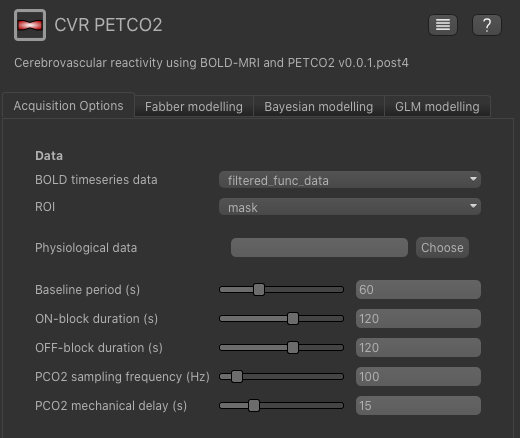
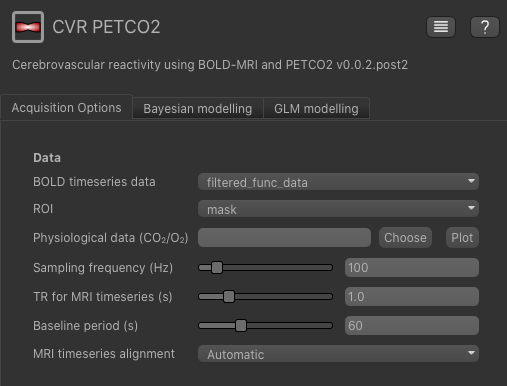
Fixed some screenshots for CVR tutorial and added additional acknowledgements

diff --git a/doc/cvr/tutorial.rst b/doc/cvr/tutorial.rst
@@ -14,7 +14,15 @@ Quantiphyse. In the coming months, we plan to optimise this aspect and add addit
 any feedback would be extremely useful, so please contact us if you would like to suggest any alteration
 (joana.pinto@eng.ox.ac.uk, martin.craig@nottingham.ac.uk).
 
-Start the program by typing quantiphyse at a command prompt or clicking on the Quantiphyse icon in the menu or dock.
+Additionally, we would like to thank Dr Sana Suri for providing the example data for this tutorial and Prof Daniel Bulte
+for helping with the analysis pipeline. 
+
+Start the program by typing ``quantiphyse`` at a command prompt or clicking on the Quantiphyse icon |qp| in the menu or dock.
+
+.. |qp| image:: /screenshots/qp_logo.png 
+    :scale: 40%
+
+.. image:: /screenshots/main_window_empty.png
 
 Load the data
 =============
@@ -24,16 +32,66 @@ acquisition scheme (SMS) (TR = 0.8s). We already pre-processed this data using F
 of brain mask, temporal filtering (90s) and spatial smoothing (5mm)). In the future, we plan to include this initial step
 in Quantiphyse.
 
-The pre-processed BOLD data is named filtered_func_data.nii.gz and the brain mask (our ROI) is mask.nii.gz. You can load
+The pre-processed BOLD data is named ``filtered_func_data.nii.gz`` and the brain mask (our ROI) is ``mask.nii.gz``. You can load
 these either using the menu item File->Load data or by dragging and dropping the data files into the viewer window from
 the file manager. If you are taking part in an organised practical workshop, the data required will be available in your
-home directory, in the ``tutorial_data/cvr`` folder.
+home directory, in the ``course_data/cvr/001/cvr.feat`` folder.
 
 Be sure to specify the CVR BOLD data as Data and mask file as ROI.
 
 .. image:: /screenshots/cvr/cvr_data.png
 
-It is always helpful to check the timeseries of the DCE-MRI data using the ``Voxel analysis`` Widget:
+When viewing the output of modelling, it may be clearer if the ROI is displayed as an outline rather than a shaded
+region. To do this, click on the icon |roi_view| to the right of the ROI selector (below the image view):
+
+.. |roi_view| image:: /screenshots/roi_view_icon.png 
+
+.. image:: /screenshots/cest_tutorial_roi_contour.png
+
+The icon cycles between display modes for the ROI: shaded (with variable transparency selected by the slider below), 
+shaded and outlined, just outlined, or no display at all.
+
+.. note::
+    If you accidentally load an ROI data set as ``Data``, you can set it to be an ROI using the ``Volumes`` widget
+    (visible by default). Just click on the data set in the list and click the ``Toggle ROI`` button.
+
+Image view
+~~~~~~~~~~
+
+The left part of the window normally contains three orthogonal views of your data. In this case the data is a 2D slice so Quantiphyse has maximised the
+relevant viewing window. If you double click on the view it returns to the standard of three orthogonal views - this can be used with 3D data to look at just one of the slice windows at a time.
+
+ - Left mouse click to select a point of focus using the crosshairs
+ - Left mouse click and drag to pan the view
+ - Right mouse click and drag to zoom
+ - Mouse wheel to move through the slices
+ - Double click to 'maximise' a view, or to return to the triple view from the maximised view.
+
+View and navigation controls
+~~~~~~~~~~~~~~~~~~~~~~~~~~~~
+
+Just below the viewer these controls allow you to move the point of focus and also change 
+the view parameters for the current ROI and overlay.
+
+Widgets
+~~~~~~~
+
+The right hand side of the window contains 'widgets' - tools for analysing and processing data.
+Three are visible at startup:
+
+ - ``Volumes`` provides an overview of the data sets you have loaded
+ - ``Data statistics`` displays summary statistics for data set
+ - ``Voxel analysis`` displays timeseries and overlay data at the point of focus
+
+Select a widget by clicking on its tab, just to the right of the image viewer. 
+
+More widgets can be found in the ``Widgets`` menu at the top of the window. The tutorial
+will tell you when you need to open a new widget.
+
+For a slightly more detailed introduction, see the :ref:`getting_started` section of the
+User Guide.
+
+It is always helpful to check the timeseries of the DCE-MRI data by clicking on the ``Voxel analysis`` Widget:
 
 The practical CVR BOLD dataset follows a boxcar paradigm with alternating 60 s periods of air and hypercapnia. The
 voxelwise time-course clearly shows the increase in the BOLD signal during the hypercapnia blocks.
@@ -112,9 +170,6 @@ Click 'Run' to perform the analysis. The following output files will be generate
  - ``sig0_vb`` - The constant signal offset
  - ``modelfit_vb`` - The model fit
 
-The priors currently used are: CVR amplitude: mean of 1 and std 50 and Delay: mean 0 std 50. It may be worthwhile to introduce more
-informative priors in the future.
-
 GLM modelling
 -------------
 
@@ -152,7 +207,7 @@ with the Bayesian approach.
 The major difference between approaches is the delay maps. In regions with high CVR amplitude, both methods agree on the
 delay (mostly GM). However, in regions with lower CVR amplitude values, the Bayesian approach uses the prior and selects
 a delay close to the average value obtained by the automatic timeseries alignment. In contrast, the GLM selects the
-'best' delay even when it might be extreme (CSF).
+'best' delay even when it might be extreme (e.g. in CSF).
 
 .. image:: /screenshots/cvr/delay.png
 
